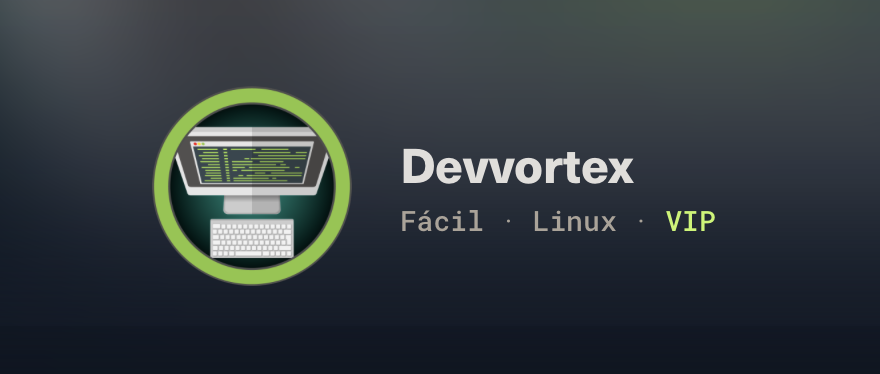
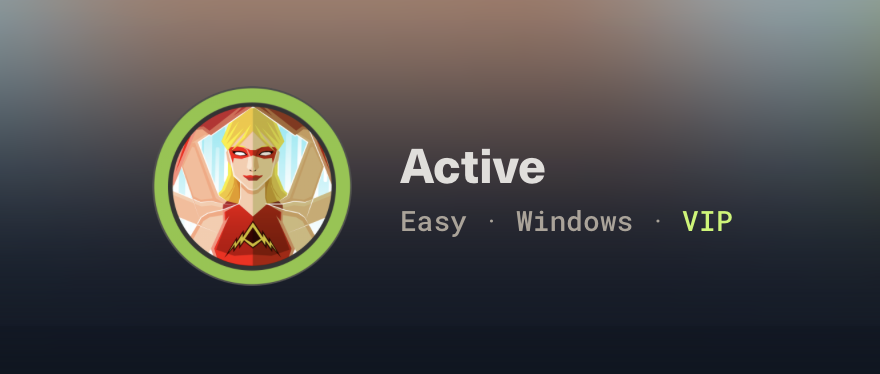
Changes in header and description

diff --git a/_posts/2024-09-08-ACTIVE---WriteUp.md b/_posts/2024-09-08-ACTIVE---WriteUp.md
@@ -17,8 +17,9 @@ tags:
   - windows
 image: /assets/img/cabeceras/2024-09-08-ACTIVE-WRITEUP.png
 description: >-
-  Devvortex es una máquina Linux de fácil dificultad que cuenta con un CMS de
-  Joomla que es vulnerable a la divulgación de información.
+  Active es una máquina de dificultad fácil a media, que cuenta con dos técnicas
+  muy frecuentes para obtener privilegios dentro de un entorno de Active
+  Directory.
 ---
 
 {% include machine-info.html
